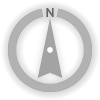
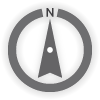
update Scale

Changed region(s): [[0.06, 0.06, 0.93, 0.93], [0.36, 0.21, 0.63, 0.78]]

diff --git a/src/de/fhpotsdam/unfolding/ui/CompassUI.java b/src/de/fhpotsdam/unfolding/ui/CompassUI.java
@@ -7,7 +7,6 @@ import processing.core.PFont;
 import processing.core.PImage;
 
 public class CompassUI {
-	public static final float SIZE_DEFAULT = 75;
 	public static final float X_DEFAULT = 100;
 	public static final float Y_DEFAULT = 100;
 	public static final String IMG_DEFAULT = "compass_white.png";
@@ -17,15 +16,13 @@ public class CompassUI {
 
 	public float x;
 	public float y;
-	private float size;
 	public float scale;
 	private PImage img;
 
 	public CompassUI(PApplet p, AbstractMapDisplay mapDisplay, PImage img,
-		float x, float y, float size) {
+		float x, float y) {
 		this.p = p;
 		this.mapDisplay = mapDisplay;
-		this.size = size;
 		this.x = x;
 		this.y = y;
 		this.img = img;
@@ -33,13 +30,11 @@ public class CompassUI {
 	}
 
 	public CompassUI(PApplet p, AbstractMapDisplay mapDisplay) {
-		this(p, mapDisplay, p.loadImage(IMG_DEFAULT), X_DEFAULT, Y_DEFAULT,
-				SIZE_DEFAULT);
+		this(p, mapDisplay, p.loadImage(IMG_DEFAULT), X_DEFAULT, Y_DEFAULT);
 	}
 
 	public CompassUI(PApplet p, Map map) {
-		this(p, map.mapDisplay, p.loadImage(IMG_DEFAULT), X_DEFAULT, Y_DEFAULT,
-				SIZE_DEFAULT);
+		this(p, map.mapDisplay, p.loadImage(IMG_DEFAULT), X_DEFAULT, Y_DEFAULT);
 	}
 	public void draw() {
 		// int zoomLevel = Map.getZoomLevelFromScale(mapDisplay.innerScale);

diff --git a/examples/de/fhpotsdam/unfolding/examples/ui/ComplexCompassApp.java b/examples/de/fhpotsdam/unfolding/examples/ui/ComplexCompassApp.java
@@ -13,6 +13,7 @@ public class ComplexCompassApp extends PApplet {
 
 	Map map;
 	CompassUI compass;
+	PImage compassImg;
 
 	public void setup() {
 		size(800, 600, GLConstants.GLGRAPHICS);
@@ -21,8 +22,8 @@ public class ComplexCompassApp extends PApplet {
 		map.zoomAndPanTo(new Location(52.5f, 13.4f), 10);
 		compass = new CompassUI(this,map);
 		
-		PImage compassImg = loadImage("compass_grey.png");
-		compass = new CompassUI(this, map.mapDisplay, compassImg, 700, 100, 70);
+		compassImg = loadImage("compass_grey.png");
+		compass = new CompassUI(this, map.mapDisplay, compassImg, 700, 100);
 	}
 
 	public void draw() {
@@ -34,6 +35,7 @@ public class ComplexCompassApp extends PApplet {
 	public void keyPressed() {
 		if (key == 'a') map.rotate(0.1f);
 		if (key == 'd') map.rotate(-0.1f);
+		if (key == ' ') compass.scale*=0.95;
 		}
 
 	public static void main(String[] args) {
